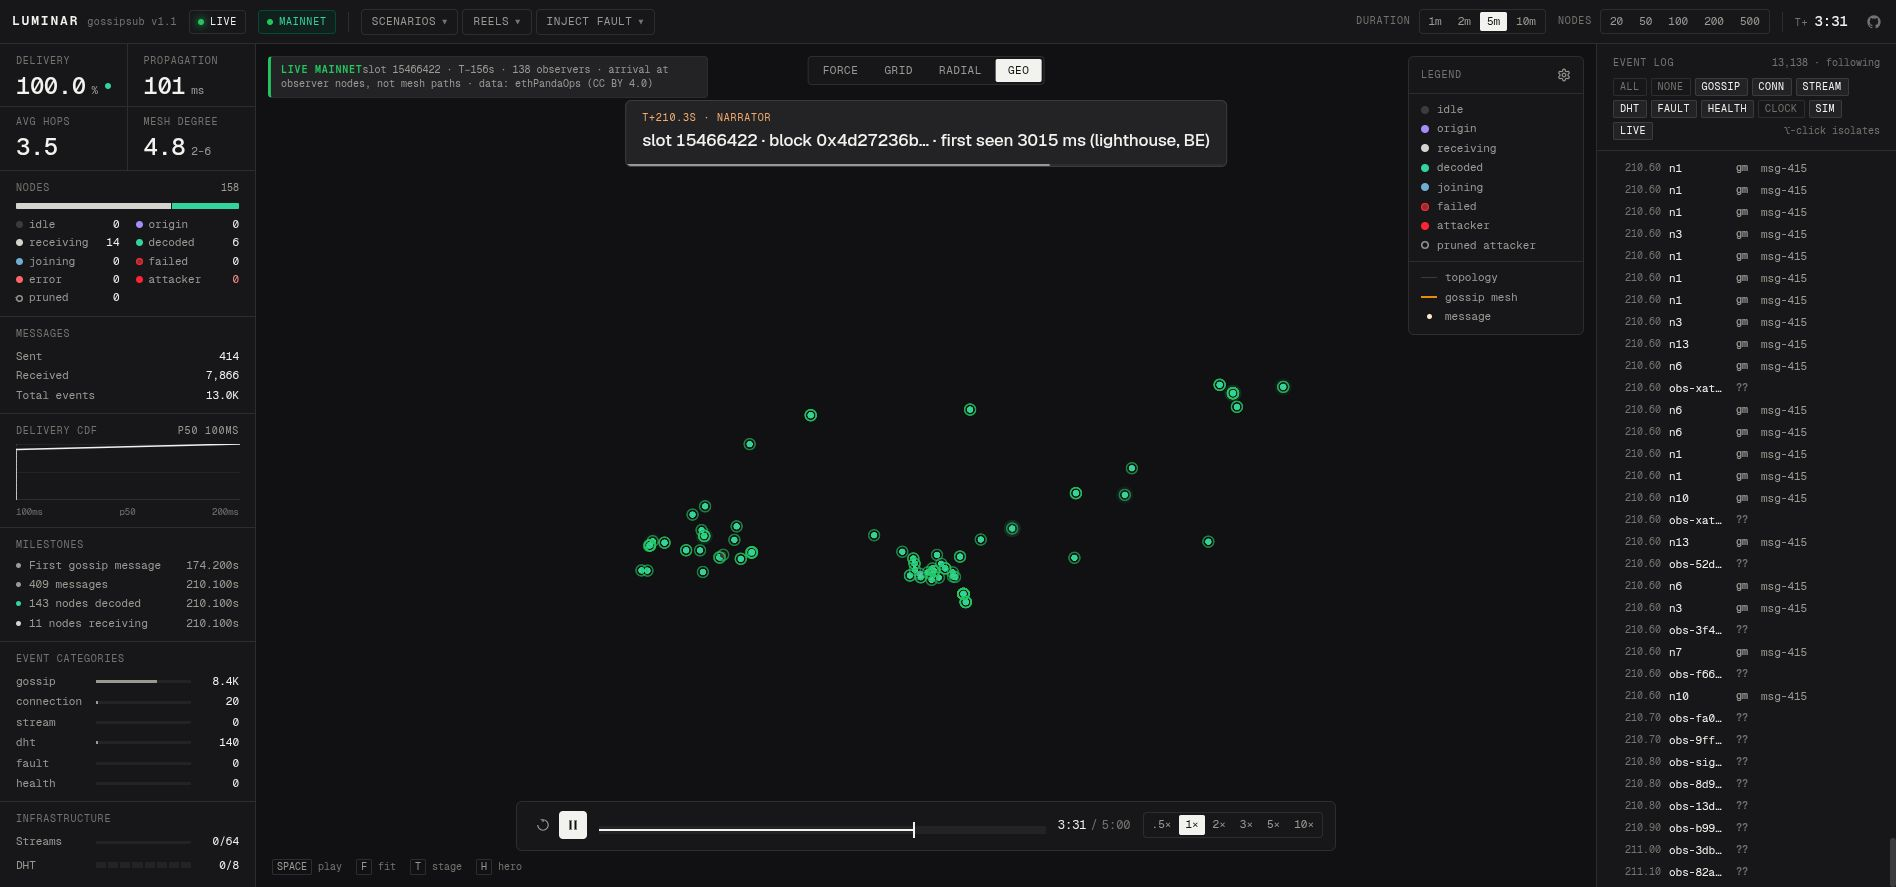
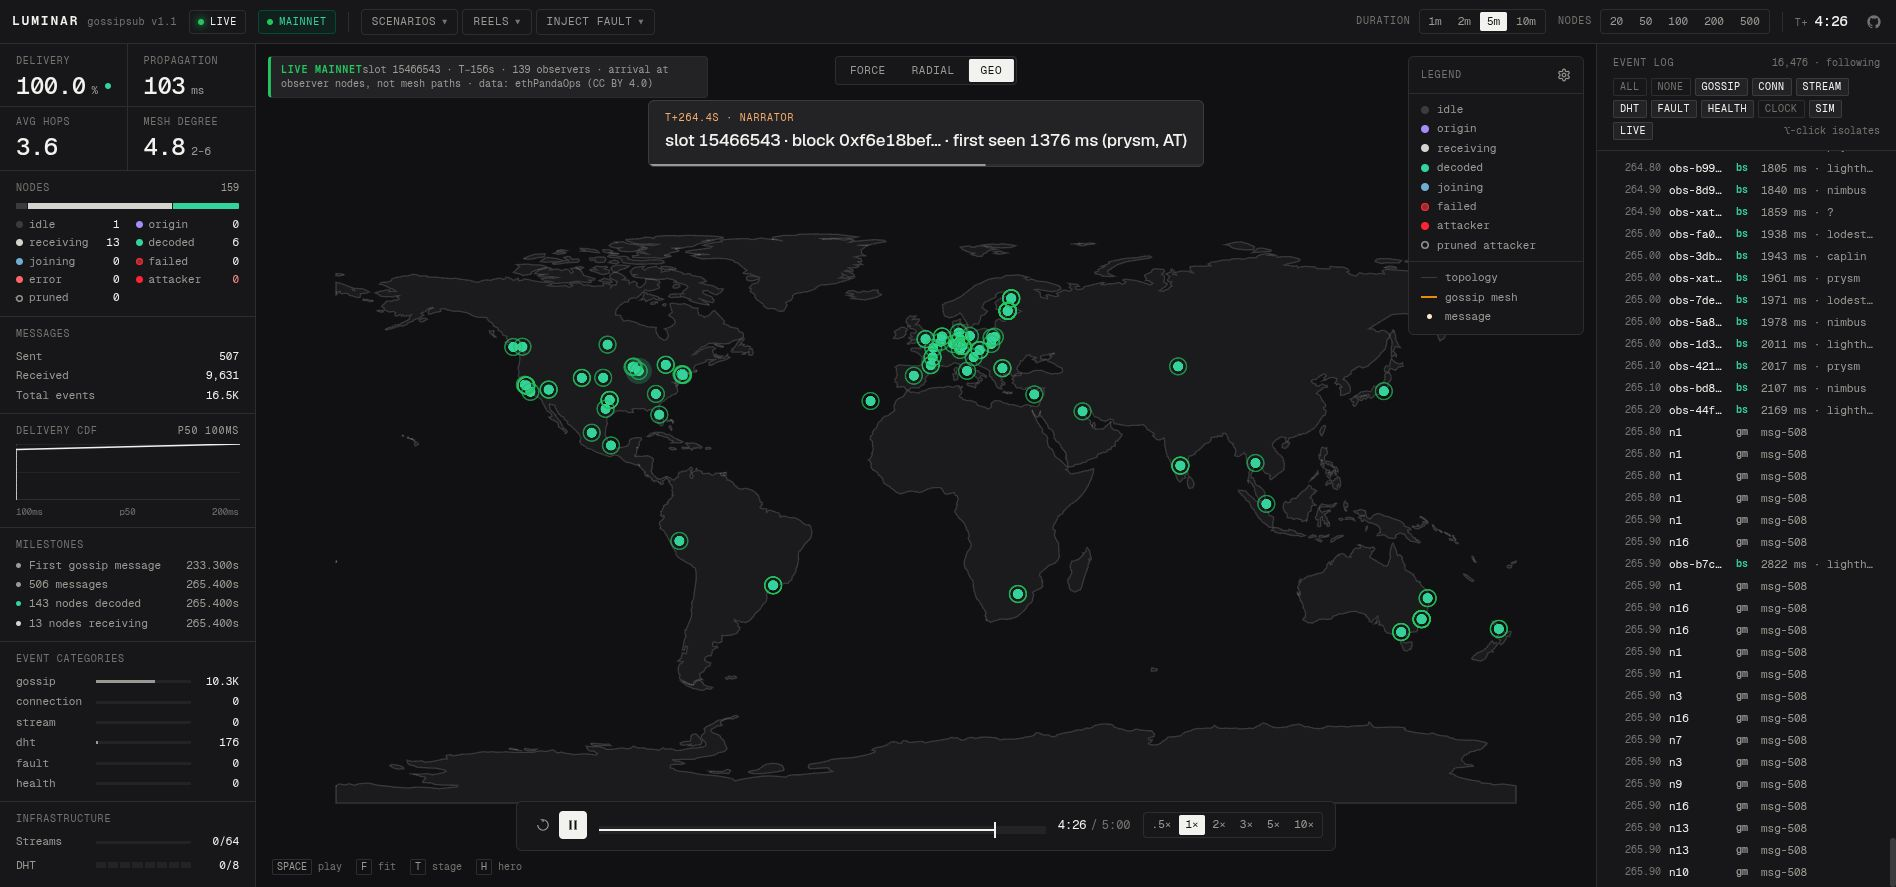
feat(frontend): world map under the Geo layout; remove the Grid layout
Natural Earth 110m land outlines (public domain, 84 KB, loaded on first use) are drawn
under the observers; fit-to-view frames the whole world in Geo mode. The orthographic
view's y axis points up while producers project north as negative y, so the Geo layout
flips once. The Grid layout is removed (Force, Radial, Geo remain).

diff --git a/frontend/src/map/renderer.ts b/frontend/src/map/renderer.ts
@@ -1,5 +1,7 @@
 import { Deck, OrthographicView } from '@deck.gl/core'
-import { ScatterplotLayer, LineLayer, TextLayer } from '@deck.gl/layers'
+import { ScatterplotLayer, LineLayer, TextLayer, PolygonLayer } from '@deck.gl/layers'
+import { getStatic } from '../api/client'
+import { GEO_SCALE } from './layout'
 import { store } from '../store'
 import { shortName } from '../format'
 import {
@@ -121,6 +123,23 @@ const ring = (id: string, extra: Record<string, unknown>) => new ScatterplotLaye
 
 const withAlpha = (c: RGBA, a: number): RGBA => [c[0], c[1], c[2], Math.max(0, Math.min(255, Math.round(a)))]
 
+// ── World land outlines for the Geo layout (Natural Earth 110m, public domain), loaded once ──
+type Ring = [number, number][]
+let landPolygons: Ring[] | null = null
+let landLoading = false
+const WORLD_BOUNDS = { minX: -180 * GEO_SCALE, maxX: 180 * GEO_SCALE, minY: -58 * GEO_SCALE, maxY: 84 * GEO_SCALE }  // y up; Antarctica cropped
+
+function ensureLand() {
+  if (landPolygons || landLoading) return
+  landLoading = true
+  getStatic<{ features: { geometry: { type: string; coordinates: number[][][] } }[] }>('/geo/land-110m.json')
+    .then(fc => {
+      landPolygons = (fc?.features ?? []).map(f => f.geometry.coordinates[0].map(([lon, lat]) => [lon * GEO_SCALE, lat * GEO_SCALE] as [number, number]))
+      renderLayers()
+    })
+    .finally(() => { landLoading = false })
+}
+
 export function renderLayers() {
   if (!deck) return
   refreshPalette()
@@ -164,6 +183,24 @@ export function renderLayers() {
   }
 
   const layers: any[] = []
+
+  // 0. World map under everything in the Geo layout
+  if (store.layoutMode === 'geo') {
+    ensureLand()
+    if (landPolygons) {
+      layers.push(new PolygonLayer({
+        id: 'world-land',
+        data: landPolygons,
+        getPolygon: (d: Ring) => d,
+        filled: true,
+        stroked: true,
+        getFillColor: [242, 242, 239, 12],
+        getLineColor: [242, 242, 239, 40],
+        lineWidthMinPixels: 1,
+        pickable: false,
+      }))
+    }
+  }
   // Geo layout shows the real world only: simulated peers have no coordinates, and drawing
   // their topology over the observers would merge two provenances in one graph.
   const geoOnly = store.layoutMode === 'geo' && nodes.some(nd => nd.is_real || nd.is_telemetry)
@@ -460,10 +497,14 @@ export function fitView() {
   if (positions.length === 0) return
 
   let minX = Infinity, minY = Infinity, maxX = -Infinity, maxY = -Infinity
-  for (let i = 0; i < positions.length; i++) {
-    const [x, y] = positions[i]
-    if (x < minX) minX = x; if (y < minY) minY = y
-    if (x > maxX) maxX = x; if (y > maxY) maxY = y
+  if (store.layoutMode === 'geo') {
+    ({ minX, minY, maxX, maxY } = WORLD_BOUNDS)  // the whole map, not just where the nodes are
+  } else {
+    for (let i = 0; i < positions.length; i++) {
+      const [x, y] = positions[i]
+      if (x < minX) minX = x; if (y < minY) minY = y
+      if (x > maxX) maxX = x; if (y > maxY) maxY = y
+    }
   }
 
   const pad = 80

diff --git a/frontend/src/map/layout.ts b/frontend/src/map/layout.ts
@@ -22,6 +22,9 @@ interface ForceLink extends SimulationLinkDatum<ForceNode> {
 }
 
 /** Edge list entry: [source, target, weak?] */
+/** Degrees → canvas units for the Geo layout; must match backend/live/mainnet.py GEO_SCALE. */
+export const GEO_SCALE = 2.5
+
 export type LayoutEdge = [string, string] | [string, string, true]
 
 let liveSim: Simulation<ForceNode, ForceLink> | null = null
@@ -106,7 +109,7 @@ export function isLiveForceActive(): boolean {
   return liveSim !== null
 }
 
-// ── Static layout computation (for Grid and Radial modes) ────────────
+// ── Static layout computation (Radial and Geo modes) ─────────────────
 
 export function computeLayout(
   mode: LayoutMode,
@@ -115,44 +118,10 @@ export function computeLayout(
 ): LayoutResult {
   switch (mode) {
     case 'force': return { positions: [] }  // Force uses live sim, not static
-    case 'grid': return layoutGrid(nodes)
-    case 'geo': return { positions: nodes.map(n => [n.x, n.y] as [number, number]) }  // producer-projected lat/lon
+    // Producers project y down (y = −lat·2.5); the orthographic view's y points up, so flip once here
+    case 'geo': return { positions: nodes.map(n => [n.x, -n.y] as [number, number]) }
     case 'radial': return layoutRadial(nodes, _edges)
   }
-}
-
-// ── Grid layout ───────────────────────────────────────────────────────
-function layoutGrid(nodes: PeerNode[]): LayoutResult {
-  const n = nodes.length
-  if (n === 0) return { positions: [] }
-
-  const stateOrder: Record<string, number> = {
-    origin: 0, receiving: 1, decoded: 2, joining: 3,
-    idle: 4, failed: 5, error: 6,
-  }
-  const sorted = nodes.map((nd, i) => ({ idx: i, order: stateOrder[nd.state] ?? 4 }))
-    .sort((a, b) => a.order - b.order || a.idx - b.idx)
-
-  const spacing = Math.max(14, Math.min(28, 600 / Math.sqrt(n)))
-  const cols = Math.ceil(Math.sqrt(n * 1.3))
-  const rowH = spacing * 0.866
-
-  const positions: [number, number][] = new Array(n)
-  const totalW = (cols - 1) * spacing
-  const totalRows = Math.ceil(n / cols)
-  const totalH = (totalRows - 1) * rowH
-
-  for (let rank = 0; rank < sorted.length; rank++) {
-    const row = Math.floor(rank / cols)
-    const col = rank % cols
-    const stagger = (row % 2 === 1) ? spacing * 0.5 : 0
-    positions[sorted[rank].idx] = [
-      col * spacing + stagger - totalW / 2,
-      row * rowH - totalH / 2,
-    ]
-  }
-
-  return { positions }
 }
 
 // ── Radial layout ─────────────────────────────────────────────────────

diff --git a/frontend/src/app.ts b/frontend/src/app.ts
@@ -16,7 +16,7 @@ import { initModeSwitcher } from './ui/mode-switcher'
 import { initKeyboard } from './ui/keyboard'
 import { initNarrator, narratorOnEvents, narratorOnAnalytics, narratorOnScenario, renderBands, renderTicker, caption } from './ui/narrator'
 import { formatTime } from './format'
-import type { AppEvent } from './types'
+import type { AppEvent, LayoutMode } from './types'
 
 // ── Topology fingerprint ──
 let topoKey = ''
@@ -635,7 +635,7 @@ function applyMainnetStatus(m: any) {
   renderTicker()
 }
 
-function setLayoutMode(mode: 'force' | 'grid' | 'radial' | 'geo') {
+function setLayoutMode(mode: LayoutMode) {
   document.querySelectorAll<HTMLButtonElement>('.mode-tab').forEach(t => t.classList.toggle('active', t.dataset.mode === mode))
   store.layoutMode = mode
   topoKey = ''

diff --git a/frontend/index.html b/frontend/index.html
@@ -116,10 +116,9 @@
           <div id="tp-feed" class="tp-feed"></div>
         </div>
 
-        <!-- Layout switcher (Force/Grid/Radial) -->
+        <!-- Layout switcher (Force/Radial/Geo) -->
         <div id="mode-switcher">
           <button class="mode-tab active" data-mode="force">Force</button>
-          <button class="mode-tab" data-mode="grid">Grid</button>
           <button class="mode-tab" data-mode="radial">Radial</button>
           <button class="mode-tab" data-mode="geo" title="Place nodes by latitude/longitude (real observers)">Geo</button>
         </div>

diff --git a/frontend/src/types.ts b/frontend/src/types.ts
@@ -1,4 +1,4 @@
-export type LayoutMode = 'force' | 'grid' | 'radial' | 'geo'
+export type LayoutMode = 'force' | 'radial' | 'geo'
 export type SimState = 'running' | 'paused' | 'stopped'
 export type NodeState = 'idle' | 'origin' | 'receiving' | 'decoded' | 'error' | 'joining' | 'failed' | 'attacker'
 

diff --git a/docs/ui.md b/docs/ui.md
@@ -12,7 +12,7 @@ Verified against the `feat/redesign` working tree on 2026-10-19 (the Ember redes
 
 ## 1. Screen map
 
-One page, no routing. A 44px toolbar spans the top. Below it are three columns: a statistics panel on the left (fixed 256px), the deck.gl map in the centre (flex), and the event log on the right (fixed 300px) (`style.css:190-223`). Every surface is flat: separation is a surface step plus a 1px hairline, no box shadows (the one permitted glow is the LIVE dot). The timeline bar floats over the bottom of the map (76% wide, 360–820px, `bottom: 36px`). The peer inspector (300px) slides in from the right over the event-log column; the telemetry panel (272px) slides in from the left. The legend/settings card (176px) sits top-right of the map. The Force/Grid/Radial switcher is top-centre of the map (`left: 50%; translateX(-50%)`, `style.css:448-452`) and the narrator caption card sits directly below it, also centred (`top: 56px`). A row of keyboard hints (`SPACE play · F fit · T stage · H hero`, `#lm-kbd`) sits bottom-left of the map (`index.html`, `style.css:479-491`) and the fault toast appears top-left under the toolbar. In hero layout the side columns, inspector, kbd row and tooltip are hidden and a 44px ticker strip appears along the bottom (`style.css:597-633`).
+One page, no routing. A 44px toolbar spans the top. Below it are three columns: a statistics panel on the left (fixed 256px), the deck.gl map in the centre (flex), and the event log on the right (fixed 300px) (`style.css:190-223`). Every surface is flat: separation is a surface step plus a 1px hairline, no box shadows (the one permitted glow is the LIVE dot). The timeline bar floats over the bottom of the map (76% wide, 360–820px, `bottom: 36px`). The peer inspector (300px) slides in from the right over the event-log column; the telemetry panel (272px) slides in from the left. The legend/settings card (176px) sits top-right of the map. The Force/Radial/Geo switcher is top-centre of the map (`left: 50%; translateX(-50%)`, `style.css:448-452`) and the narrator caption card sits directly below it, also centred (`top: 56px`). A row of keyboard hints (`SPACE play · F fit · T stage · H hero`, `#lm-kbd`) sits bottom-left of the map (`index.html`, `style.css:479-491`) and the fault toast appears top-left under the toolbar. In hero layout the side columns, inspector, kbd row and tooltip are hidden and a 44px ticker strip appears along the bottom (`style.css:597-633`).
 
 ```
 ┌──────────────────────────────────────────────────────────────────────────────┐
@@ -95,7 +95,7 @@ Ring semantics at a glance: white thick = selected; faint warm-white thin = peer
 | Mode | How it is built | Notes |
 |---|---|---|
 | Force (default) | Live d3-force: link strength 0.4 at `max(40, 400/√n)`, charge −800, weak centre, collide. Nodes seen before keep their positions; new ones seed on a circle. If fewer than 80% of nodes are reused, 80 synchronous warm-up ticks run first. | Grafted attackers get links to their victims so they sit next to them. A pruned attacker gets a *weak* tether (strength 0.2, distance 1.6×) to up to two of its `last_targets` (victims at injection time, `backend/simulation/engine.py:133`) so it parks beside the cluster instead of drifting off (`app.ts:65-73`, `map/layout.ts:69-70`). `fitView` 200 ms after start. |
-| Grid | Static hex-staggered grid, sorted by state (origin, receiving, decoded, joining, idle, failed, error). | Attackers sort with idle. Spacing `clamp(600/√n, 14, 28)`. |
+| Geo | Nodes at producer-projected lat/lon (`x = lon·2.5`, `y = −lat·2.5`) over Natural Earth 110m land outlines (public domain, `frontend/public/geo/land-110m.json`, 84 KB, loaded on first use; fit-to-view frames the whole world); simulated peers are hidden. | Used by the live mainnet feed and real-trace reels; selected automatically when the feed turns on. |
 | Radial | Highest-degree node at centre, rings outward by degree, at least 6 per ring. | Degree counts attacker links. |
 
 Layout is recomputed only when the sorted node-id set, the edge set, or the mode changes (`topoKey`); state changes alone never relayout.

diff --git a/README.md b/README.md
@@ -22,7 +22,7 @@ Luminar simulates **py-libp2p peers** running GossipSub v1.1, DHT, and stream pr
 - **GossipSub v1.1** — P1-P4 peer scoring, mesh management (GRAFT/PRUNE), IHAVE/IWANT, message traces
 - **Fault injection** — Partition, Sybil, Eclipse, Drop — watch degradation and recovery
 - **Live analytics** — Delivery CDF, gossip metrics, peer scores, millisecond event log
-- **Interactive layouts** — Force (d3-force with Obsidian-like physics), Grid, Radial
+- **Interactive layouts** — Force (d3-force with Obsidian-like physics), Radial, Geo (world map for real observers)
 - **Single WebSocket** — Events, snapshots, metrics, analytics multiplexed at 20Hz
 
 ## Quick Start
@@ -60,7 +60,7 @@ Open **http://localhost:5173** — click Play and watch the network come alive.
 | **Speed** | 0.5x · 1x · 2x · 3x · 5x · 10x |
 | **Duration** | 1m · 2m · 5m · 10m (auto-pause) |
 | **Nodes** | 20 · 50 · 100 · 200 · 500 |
-| **Layout** | Force · Grid · Radial |
+| **Layout** | Force · Radial · Geo |
 | **Keyboard** | `Space` play/pause · `f` fit view · `Esc` deselect |
 
 ### Fault Injection
